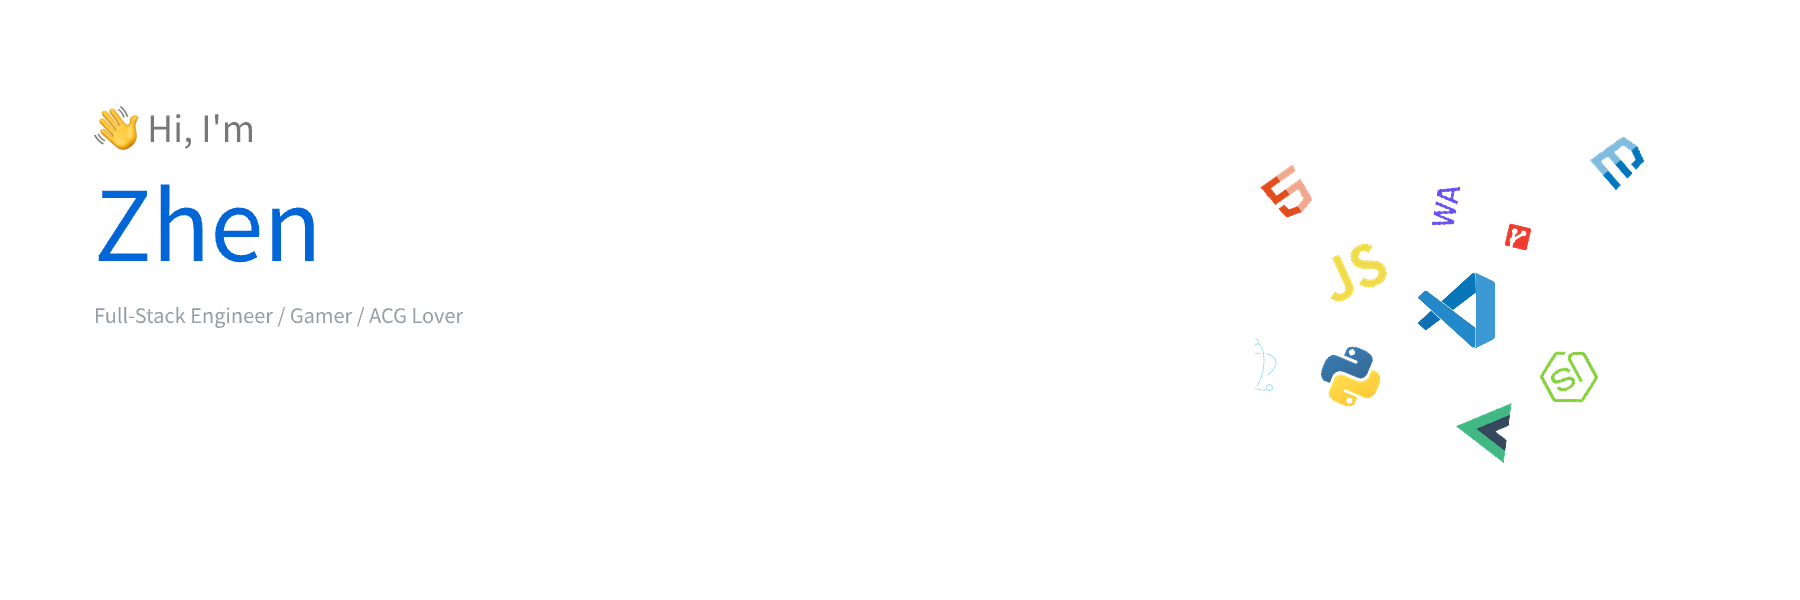
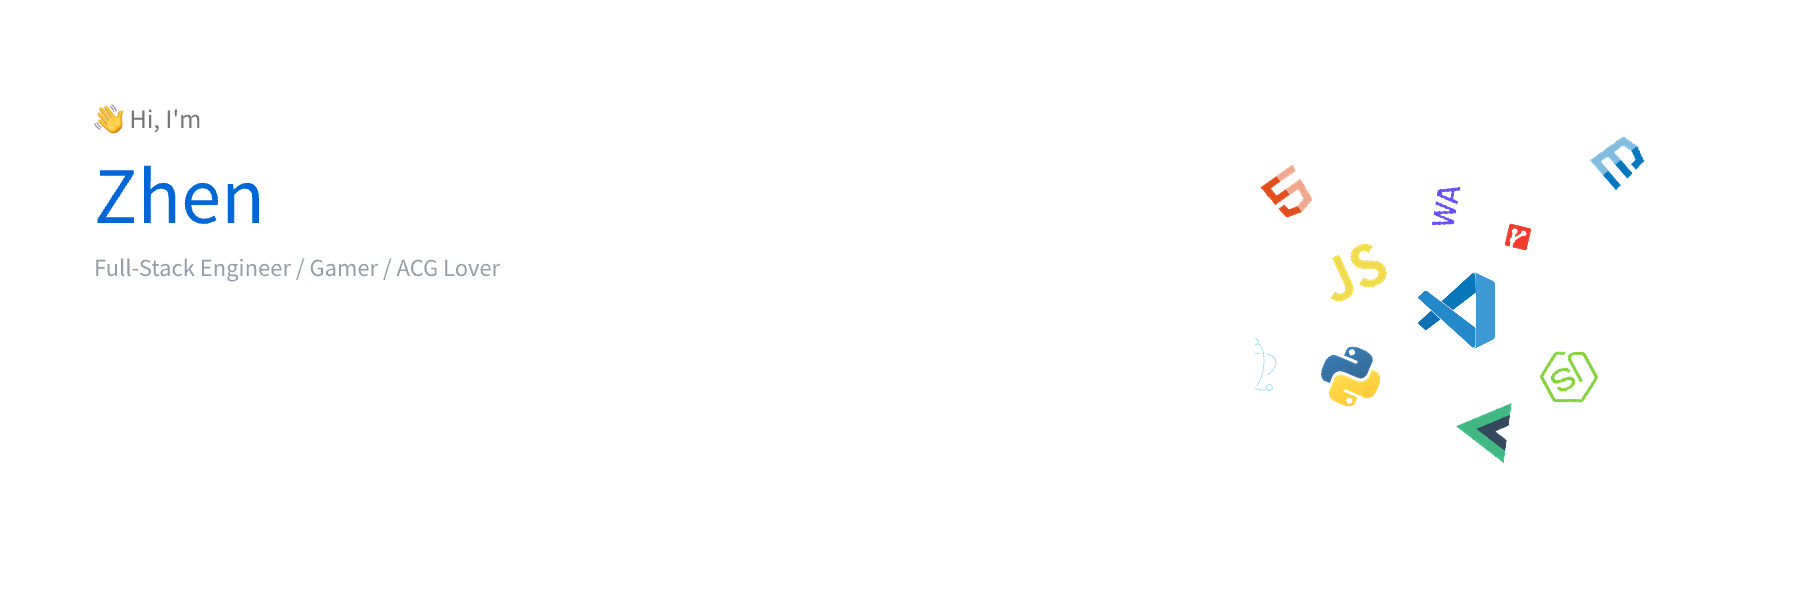
♪(´▽｀)

Changed region(s): [[0.0311, 0.27, 0.28, 0.48], [0.0311, 0.18, 0.1556, 0.24], [0.0622, 0.51, 0.2489, 0.54]]

diff --git a/README.md b/README.md
@@ -1,5 +1,5 @@
 <picture>
-    <img width="100%" src="images/header.png" alt="Zhen" />
+    <img width="100%" src="images/header.svg" alt="Zhen" />
 </picture>
 
 <div align="center">
